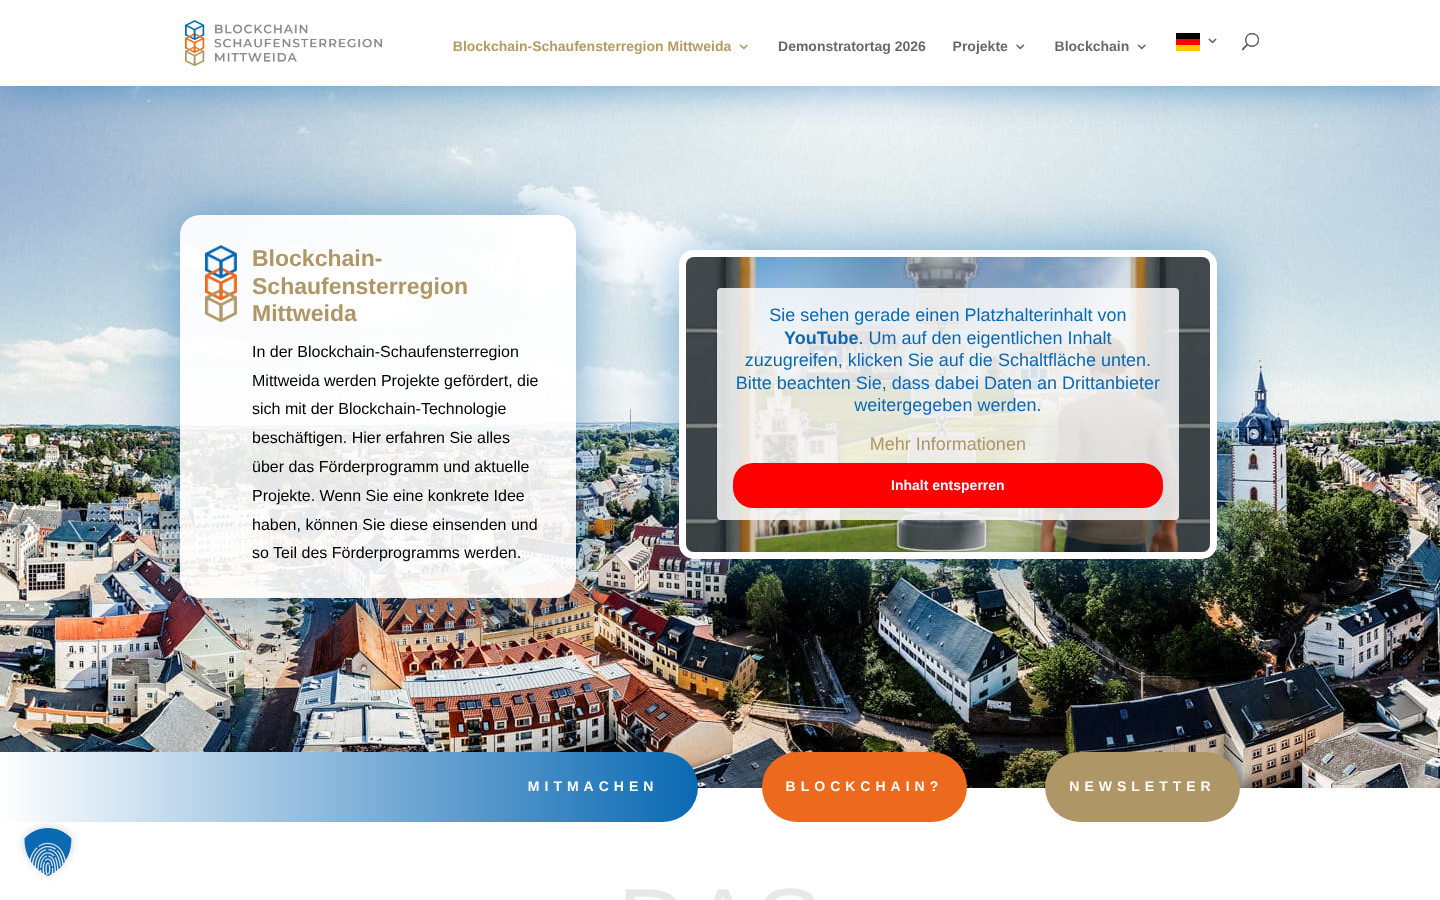
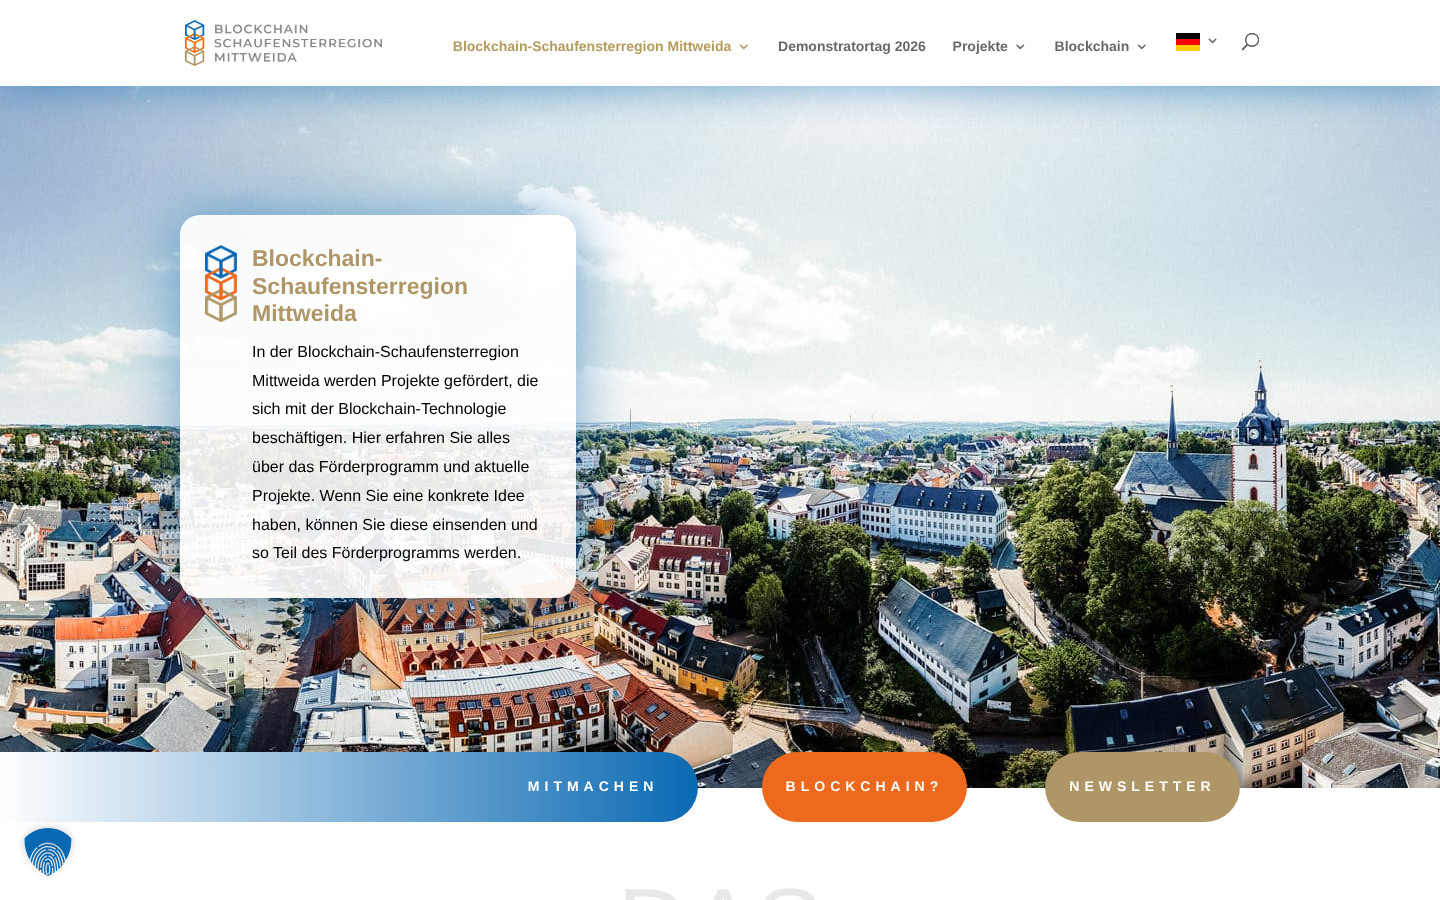
Remove slide 19, enlarge website screenshot on slide 16 without embed placeholder
Claude-Session: https://claude.ai/code/session_013gtb19oe6eqR29ahPfE25N

Changed region(s): [[0.4375, 0.2489, 0.875, 0.6533]]

diff --git a/index.html b/index.html
@@ -306,17 +306,6 @@
     <footer class="footer"><span>Blockchain-Schaufensterregion Mittweida · Demonstratortag 2026</span><span class="pgno">18</span></footer>
   </section>
 
-  <!-- M7 · Newsletter & IHK -->
-  <section class="slide" id="m7" aria-label="Newsletter und IHK">
-    <img class="corner-logo" src="assets/img/bsrm-logo-freigestellt.png" alt="">
-    <p class="eyebrow anim" style="--i:0">Newsletter &amp; Presse</p>
-    <h2 class="title anim" style="--i:1">Weiterlesen</h2>
-    <div class="links-grid two">
-      <a class="link-card anim" style="--i:2" href="https://273932.seu2.cleverreach.com/m/17511722/1126220-ba99b848c8e2dffaac4a48df0ca173d2d76c47e6c767bc5ed245382b3387565e5ba2665cdeafcbd32245a2cfbcee070d" target="_blank" rel="noopener"><span class="lk">Newsletter</span><strong>Newsletter der Blockchain-Schaufensterregion</strong><span>Aktuelle Ausgabe öffnen</span></a>
-      <a class="link-card anim" style="--i:3" href="https://www.ihk.de/chemnitz/servicemarken/presse/aktuelle-presseinformationen/presse-mittelsachsen/blockchain-live-erleben-demonstratortag-in-mittweida-7216972" target="_blank" rel="noopener"><span class="lk">IHK Chemnitz</span><strong>Blockchain live erleben</strong><span>Pressemitteilung zum Demonstratortag in Mittweida</span></a>
-    </div>
-    <footer class="footer"><span>Blockchain-Schaufensterregion Mittweida · Demonstratortag 2026</span><span class="pgno">19</span></footer>
-  </section>
 
   <!-- 13 · Abschluss -->
   <section class="slide closing" id="s13" aria-label="Abschluss">
@@ -330,13 +319,13 @@
       <li class="anim" style="--i:5"><span class="n">4</span><p>Das Förderprogramm endet Ende 2026. Die Weichen für eine dauerhafte Struktur über die Förderung hinaus sind gestellt.</p></li>
     </ol>
     <p class="thanks anim" style="--i:6">Herzlichen Dank an alle Partner, Projektteams und Unterstützer!</p>
-    <footer class="footer"><span>Blockchain-Schaufensterregion Mittweida · www.blockchain-mittweida.com</span><span class="pgno">20</span></footer>
+    <footer class="footer"><span>Blockchain-Schaufensterregion Mittweida · www.blockchain-mittweida.com</span><span class="pgno">19</span></footer>
   </section>
 </main>
 
 <nav class="controls" id="controls" aria-label="Steuerung">
   <button type="button" id="prev" aria-label="Zurück">‹</button>
-  <span class="counter" id="counter" aria-live="polite">1 / 20</span>
+  <span class="counter" id="counter" aria-live="polite">1 / 19</span>
   <button type="button" id="next" aria-label="Weiter">›</button>
   <button type="button" id="fs" aria-label="Vollbild">⛶</button>
 </nav>

diff --git a/assets/css/styles.css b/assets/css/styles.css
@@ -200,7 +200,7 @@ p{margin:0;font-size:28px;line-height:1.5;color:var(--grey)}
 .video .cap,.shot .cap,.press .cap{position:absolute;left:0;right:0;bottom:0;background:rgba(11,36,64,.85);color:#fff;font-size:26px;padding:18px 28px}
 .small-note{margin-top:20px;text-align:center;font-size:26px}
 .small-note a,.cap a{color:var(--cyan-d)}
-.shot{display:block;position:relative;margin:0 auto;width:1400px;height:660px;border-radius:16px;overflow:hidden;box-shadow:0 14px 36px rgba(11,36,64,.2);background:#fff;text-decoration:none}
+.shot{display:block;position:relative;margin:0 auto;width:1720px;height:720px;border-radius:16px;overflow:hidden;box-shadow:0 14px 36px rgba(11,36,64,.2);background:#fff;text-decoration:none}
 .shot img{width:100%;height:100%;object-fit:cover;object-position:top;display:block}
 .press-grid{display:grid;grid-template-columns:1fr 1fr;gap:40px}
 .press{position:relative;display:block;border-radius:16px;overflow:hidden;box-shadow:0 14px 36px rgba(11,36,64,.2);background:#fff;height:700px;text-decoration:none}
